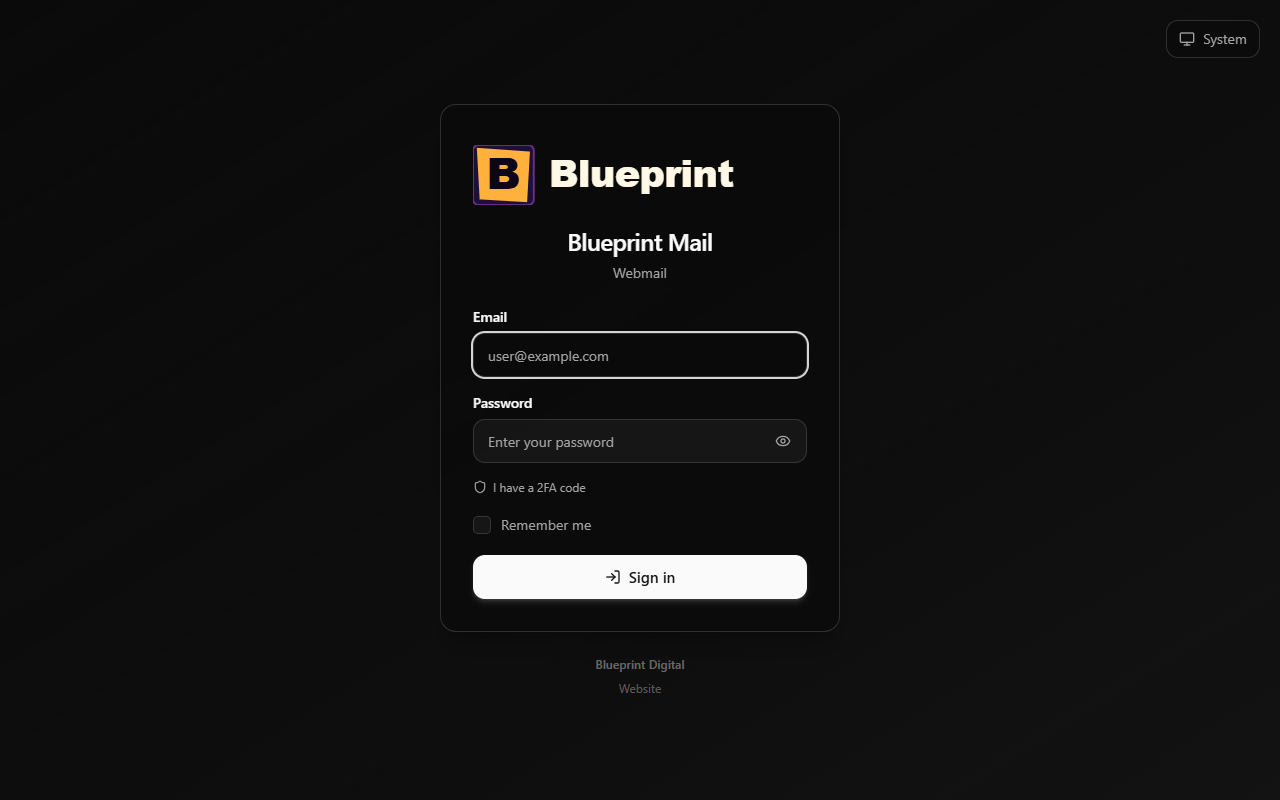
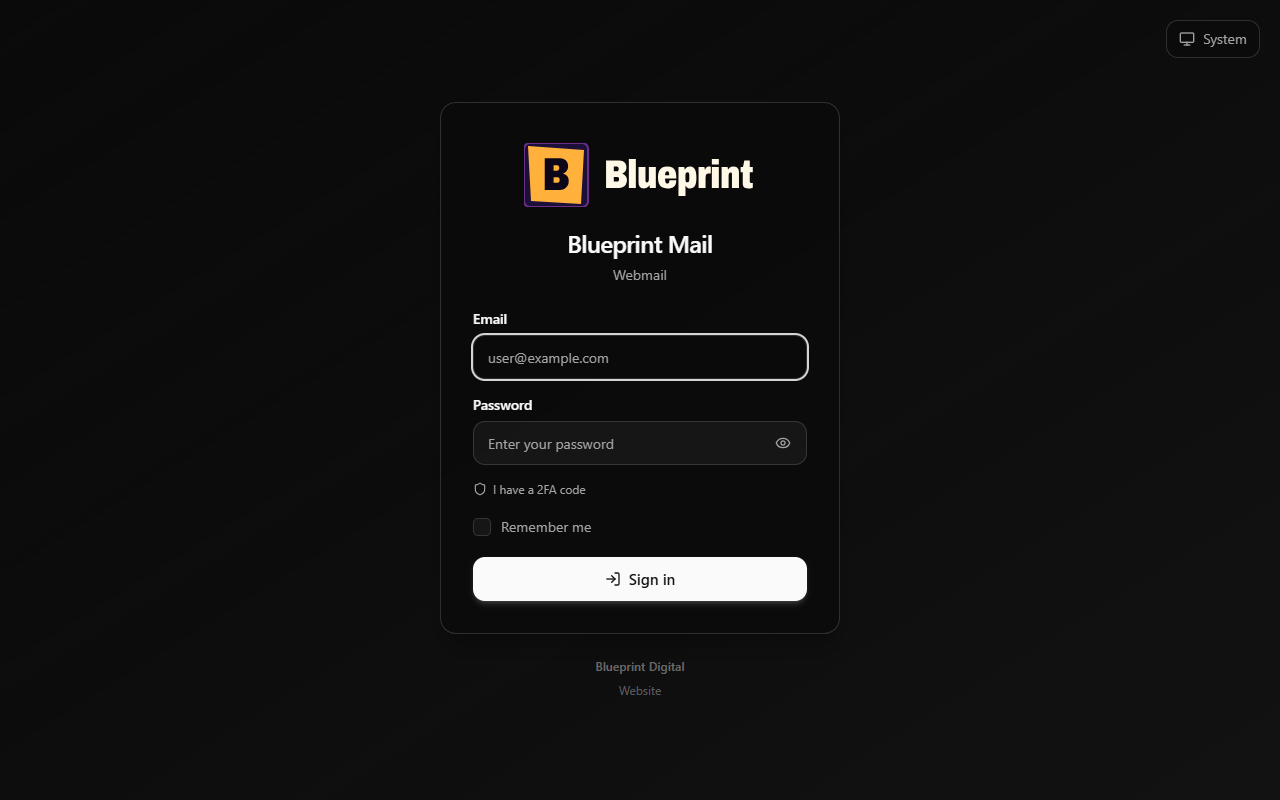
fix(mail): the Blueprint lockup is outlined Archivo, and its branding entry stands alone (#11)
Review found two gaps. The SVG asked for Archivo by font-family, but Bulwark loads the logo
through <img> and an SVG loaded that way cannot pull a web font, so the wordmark rendered in
Arial on every visitor's machine. The glyphs are now outlined paths from the wdth 75 / wght
900 instance the marketing site uses, so the mark carries the display face everywhere.

The webmail.blueprintdigital.my DOMAIN_BRANDING entry leaned on the global fallback for
its logos; the acceptance criterion asks for an entry per hostname with light + dark logo,
and a fallback means a later edit to the defaults restyles the agency's own webmail
without anyone touching its entry. The entry now names its logos and favicon explicitly,
with the reason recorded beside it.

Redeployed to bpvps1; both /api/config responses unchanged for the asserted fields; the
Blueprint screenshots are retaken.

diff --git a/vps/bpvps1/stacks/stalwart/README.md b/vps/bpvps1/stacks/stalwart/README.md
@@ -187,7 +187,12 @@ the request `Host` / `X-Forwarded-Host` (Traefik forwards both) and answers it a
 - **Logo files live in `./branding/<brand>/` and are bind-mounted** to
   `/app/public/branding/<brand>` (read-only). Next.js serves `/app/public` from disk at request
   time, so a new file is live on the next request; no image rebuild. Each brand has a light and a
-  dark login logo — Kaiteki's dark one is the same PNG with the taupe lifted to cream.
+  dark login logo — Kaiteki's dark one is the same PNG with the taupe lifted to cream. The
+  Blueprint lockup's "Blueprint" is **outlined Archivo** (wdth 75 / wght 900, the marketing
+  site's display axes), not a `font-family` reference: Bulwark loads the logo through `<img>`,
+  and an SVG loaded that way cannot pull a web font, so text would render in whatever the
+  visitor has installed. Regenerate with fontTools if the wordmark changes; don't hand-edit the
+  path data.
 - **The login page's colours are Bulwark's, not ours.** The supported branding surface is logos,
   names, links, favicon and the PWA theme/background colours (`#1c1039` / `#120926`, from the
   marketing site's tokens). The blue button and the card are Bulwark's stock theme; changing
